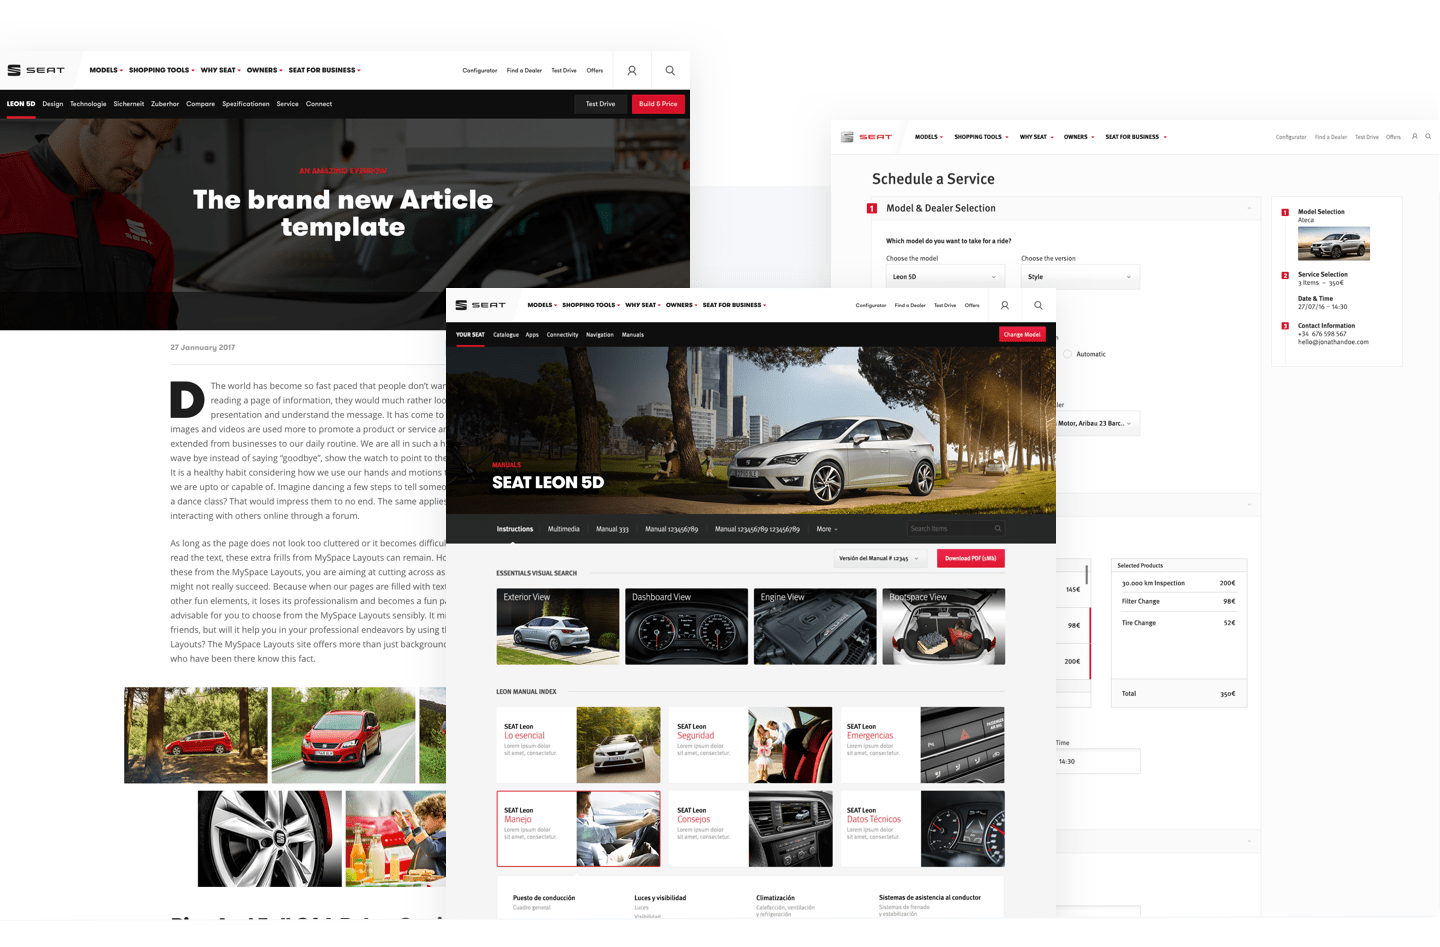
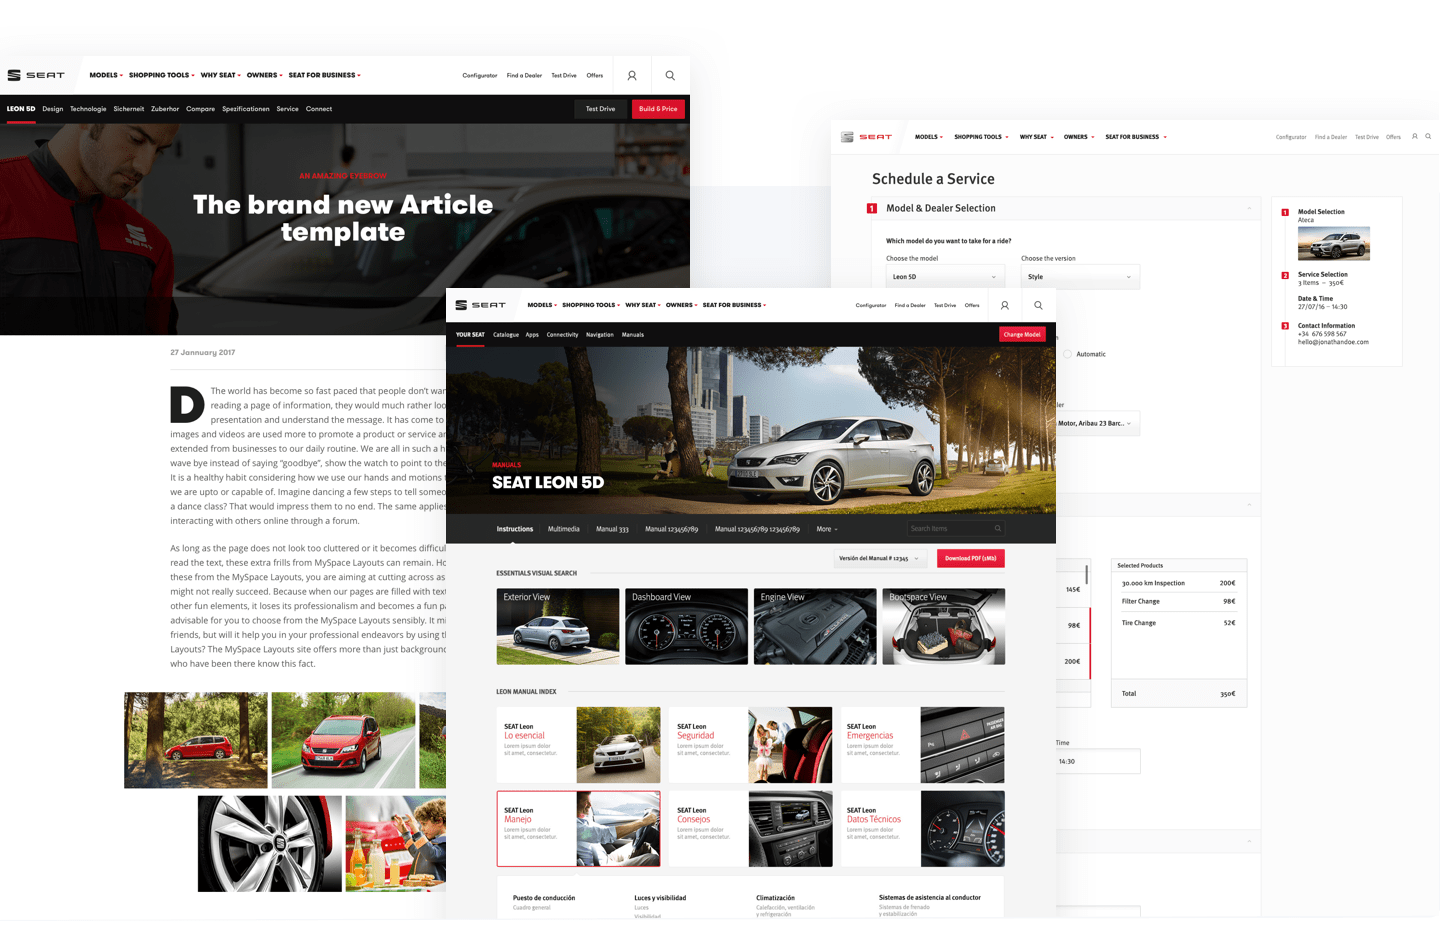
added small animation to data inside cases

Changed region(s): [[0.0, 0.0612, 0.5, 0.9493], [0.0, 0.2144, 0.125, 0.2756], [0.125, 0.2756, 0.1562, 0.3062]]

diff --git a/_layouts/seat-website.html b/_layouts/seat-website.html
@@ -2,21 +2,21 @@
 layout: default
 ---
 <div class="case seat-website">
-	<a href="{{ site.url }}" class="close-btn"></a>
+	<a href="{{ site.url }}" class="close-btn animated fadeInDown"></a>
 	<header class="case-header {{ page.gradient }}-gradient">
 		<div class="case-bg-image" style="background: url(../../images/cases/{{ page.number }}/bg-image@2x.jpg) center top;"></div>
 		<div class="copy-block">
-			<h1 class="case-title">{{ page.title }}</h1>
+			<h1 class="case-title animated fadeInUp">{{ page.title }}</h1>
 			<ul class="case-data">
-				<li class="case-data-item">
+				<li class="case-data-item animated fadeInUp">
 					<div class="label">Company</div>
 					<div class="info">{{ page.company }}</div>
 				</li>
-				<li class="case-data-item">
+				<li class="case-data-item animated fadeInUp delay-2">
 					<div class="label">Role</div>
 					<div class="info">{{ page.role }}</div>
 				</li>
-				<li class="case-data-item">
+				<li class="case-data-item animated fadeInUp delay-3">
 					<div class="label">Year</div>
 					<div class="info">{{ page.year }}</div>
 				</li>
